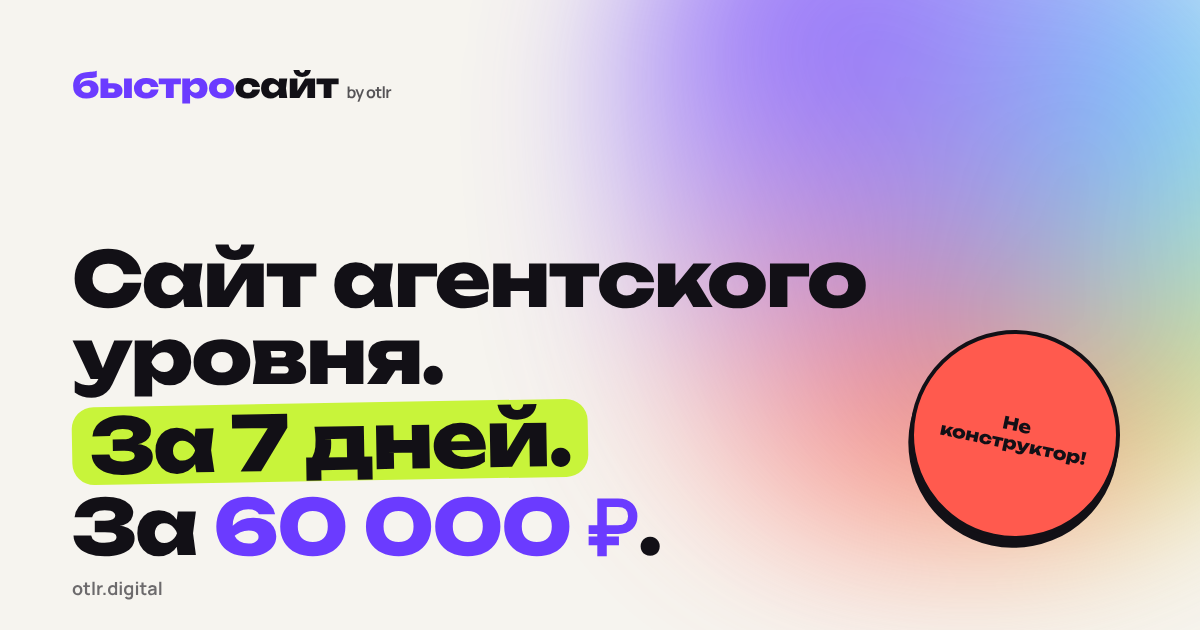
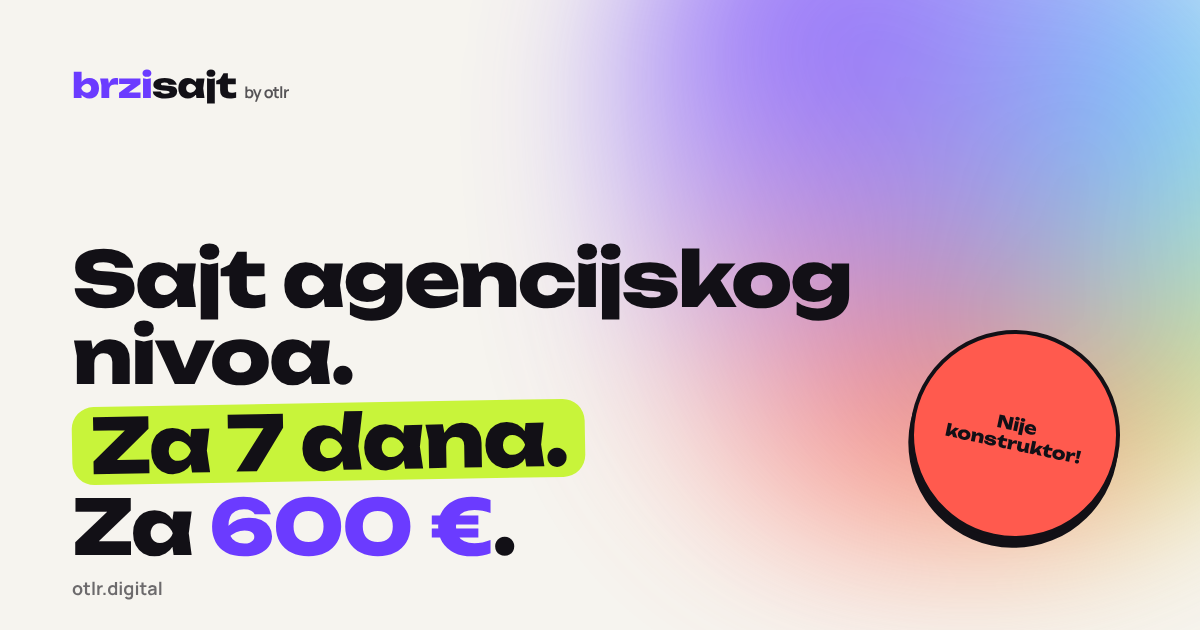
Analytics with cookie consent, SEO and performance pass
- ANALYTICS_DRIVER=none|plausible|ga4. Plausible loads directly (no
  cookies); GA4 loads only after consent from a minimal accessible
  banner, with a footer link to change the choice.
- JSON-LD Service + Offer in EUR (areaServed RS), Serbian OG image.
- Configurator placeholder heights re-measured for the Serbian layout
  so anchors and lazy loading cause no jumps.

Lighthouse mobile (production mode): 96 / 100 / 100 / 100, CLS 0;
with the GA4 banner active: 97 / 100 / 100 / 100.

Claude-Session: https://claude.ai/code/session_017niXFjmxsnR4qA4mRxMfZA

Changed region(s): [[0.0617, 0.3921, 0.74, 0.9048], [0.0617, 0.0905, 0.3392, 0.181], [0.7708, 0.6635, 0.8942, 0.754]]

diff --git a/resources/views/seo/jsonld.blade.php b/resources/views/seo/jsonld.blade.php
@@ -24,12 +24,12 @@
                 'serviceType' => 'Izrada sajta',
                 'description' => __('site.meta.description', ['price' => money(settings()->int('base_price'))]),
                 'provider' => ['@id' => url('/#organization')],
-                'areaServed' => 'RU',
+                'areaServed' => 'RS',
                 'url' => route('home'),
                 'offers' => [
                     '@type' => 'Offer',
                     'price' => (string) settings()->int('base_price'),
-                    'priceCurrency' => 'RUB',
+                    'priceCurrency' => 'EUR',
                     'availability' => 'https://schema.org/InStock',
                     'url' => route('home').'#configurator',
                 ],

diff --git a/resources/views/livewire/configurator/placeholder.blade.php b/resources/views/livewire/configurator/placeholder.blade.php
@@ -1,6 +1,6 @@
 {{-- Visina odgovara prvom koraku konfiguratora: pri učitavanju stranica ne „skače“. --}}
 <div class="mt-10 lg:mt-14" aria-busy="true">
-    <div class="grid h-[1760px] items-start gap-6 sm:h-[1270px] md:h-[1200px] lg:h-[1210px] lg:grid-cols-[minmax(0,1fr)_23rem] lg:gap-8 xl:h-[1156px] xl:grid-cols-[minmax(0,1fr)_26rem]">
+    <div class="grid h-[1720px] items-start gap-6 sm:h-[1232px] md:h-[1176px] lg:h-[1171px] lg:grid-cols-[minmax(0,1fr)_23rem] lg:gap-8 xl:h-[1135px] xl:grid-cols-[minmax(0,1fr)_26rem]">
         <div class="card h-full animate-pulse border-2 border-ink/20 bg-paper"></div>
         <div class="hidden h-[40rem] animate-pulse rounded-card bg-ink/10 lg:block"></div>
     </div>
